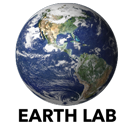
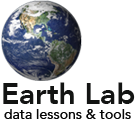
final tweaks

diff --git a/_includes/masthead.html b/_includes/masthead.html
@@ -18,7 +18,7 @@
       <nav id="site-nav" class="greedy-nav">
         <button><div class="navicon"></div></button>
         <ul class="visible-links">
-          <li class="masthead__menu-item masthead__menu-item--lg"><a href="{{ site.url }}/"><img src="/images/earth_sm.png" alt="Earth Lab - Earth Data Science" style="height:70%;width:70%"></a></li>
+          <li class="masthead__menu-item masthead__menu-item--lg"><a href="{{ site.url }}/"><img src="/images/earth_sm.png" alt="Earth Lab - Earth Data Science" style="height:80%;width:85%"></a></li>
           {% for link in site.data.navigation.main %}
             {% if link.url contains 'http' %}
               {% assign domain = '' %}
